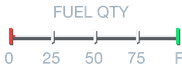
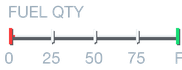
further visual cleanups

Changed region(s): [[0.1099, 0.0857, 0.522, 0.2571], [0.522, 0.0571, 0.7143, 0.2571], [0.0275, 0.0857, 0.1099, 0.2571]]

diff --git a/tools/generate_aesii_arcs.py b/tools/generate_aesii_arcs.py
@@ -19,7 +19,7 @@ FUEL_REMAINING_H = 70
 FUEL_FLOW_W = 182
 FUEL_FLOW_H = 70
 RPM_W = 205
-RPM_H = 104
+RPM_H = 70
 SCALE = 4
 W = SIZE * SCALE
 H = SIZE * SCALE
@@ -369,7 +369,7 @@ def make_fuel_remaining_base(path):
     draw.rectangle([line_x + line_w - 3 * SCALE + SCALE, line_y - 7 * SCALE + SCALE, line_x + line_w + SCALE, line_y + 9 * SCALE + SCALE], fill=shadow)
     draw.rectangle([line_x + line_w - 3 * SCALE, line_y - 7 * SCALE, line_x + line_w, line_y + 9 * SCALE], fill=GREEN)
 
-    draw_label(draw, font, "FUEL QTY", width // 2, 12 * SCALE, LABEL)
+    draw_label(draw, font, "FUEL QTY", width // 2 - 45 * SCALE, 12 * SCALE, LABEL)
     draw_label(draw, font, "0", line_x, 58 * SCALE, LABEL)
     draw_label(draw, font, "25", line_x + quarter, 58 * SCALE, LABEL)
     draw_label(draw, font, "50", line_x + quarter * 2, 58 * SCALE, LABEL)
@@ -415,7 +415,7 @@ def make_fuel_flow_base(path):
         fill=shadow,
     )
 
-    draw_label(draw, font, "FF ML/MIN", width // 2, 12 * SCALE, LABEL)
+    draw_label(draw, font, "FF ML/MIN", width // 2 - 45 * SCALE, 12 * SCALE, LABEL)
     draw.rectangle(
         [line_x, line_y - 7 * SCALE, line_x + 2 * SCALE, line_y + 9 * SCALE],
         fill=WHITE,
@@ -445,7 +445,7 @@ def make_rpm_base(path):
     line_w = 169 * SCALE
     line_h = 3 * SCALE
 
-    draw_label(draw, font, "RPM", width // 2, 10 * SCALE, LABEL)
+    draw_label(draw, font, "RPM", 34 * SCALE, 10 * SCALE, LABEL)
 
     draw.rectangle(
         [line_x, line_y, line_x + line_w, line_y + line_h],